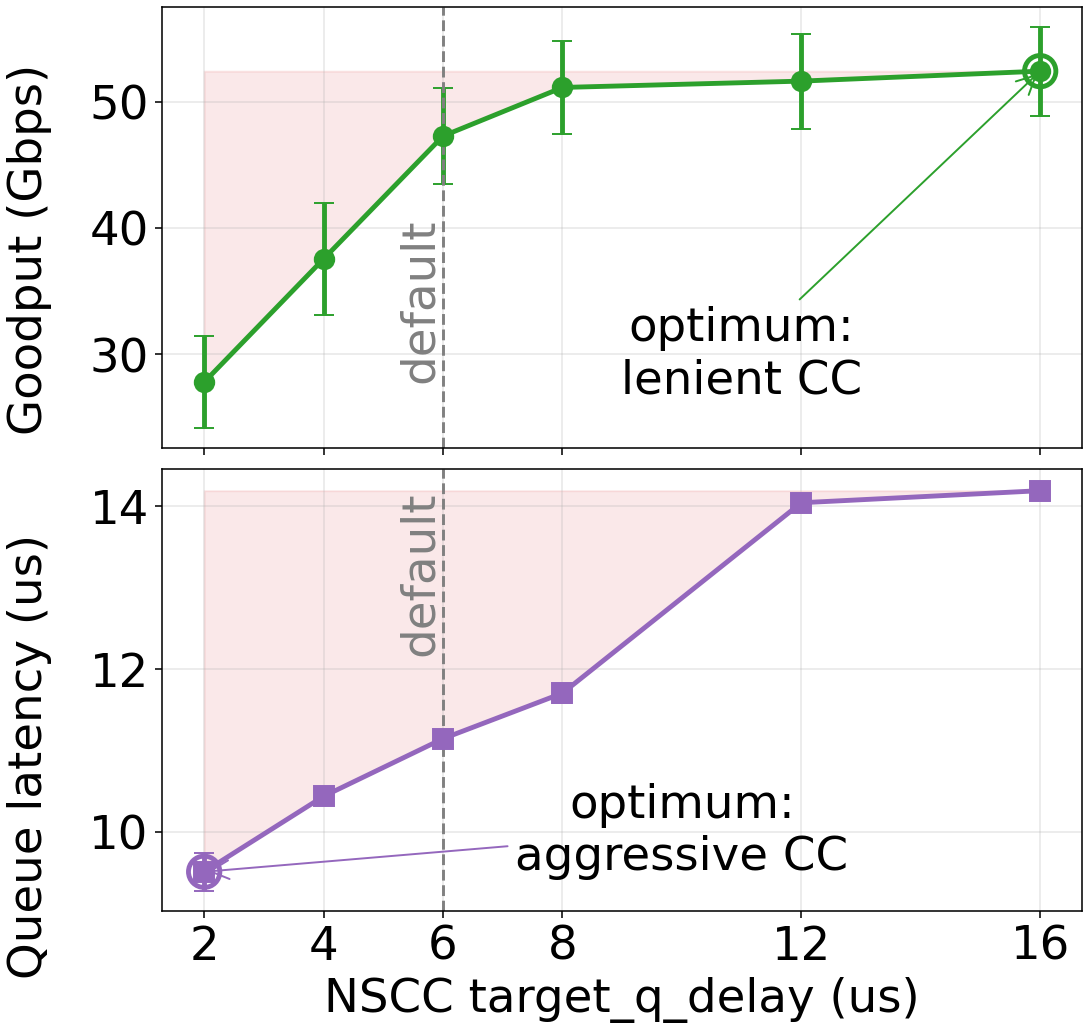
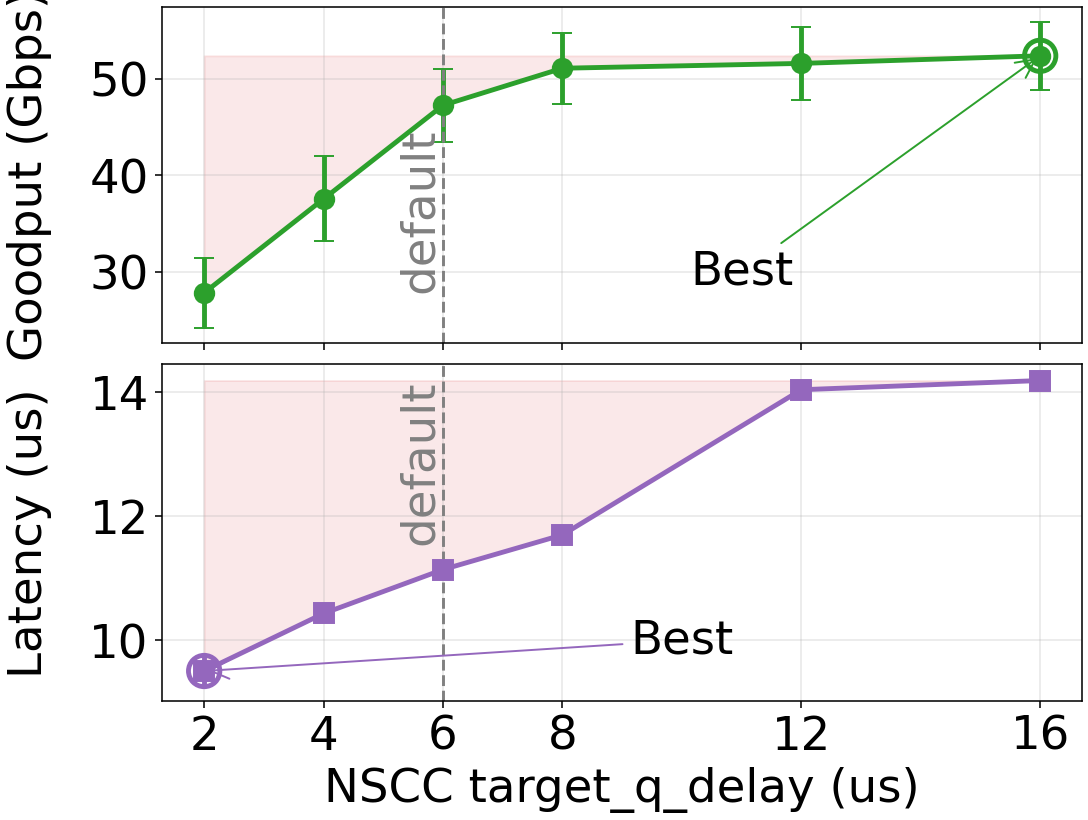
figI: shorten panel height (8 -> 6.5) so it takes less page space
Reduce the stacked figure's height; to keep the 24pt y-labels unclipped in the shorter panels,
shorten the bottom label to 'Latency (us)' and center both y-labels. Width unchanged. (Includes
the 'Best' optimum-callout wording.)

diff --git a/htsim/sim/datacenter/mvp_runs3/make_coupling_fig.py b/htsim/sim/datacenter/mvp_runs3/make_coupling_fig.py
@@ -103,13 +103,13 @@ def render():
     # sharing the x-axis so the top panel's x-ticks + x-label are dropped; small gap between panels.
     # Width and per-panel height kept as before (default_w+2.0 wide, 4 tall each -> 8 total).
     with plt.rc_context({"font.size": 24}):
-        fig, (ax1, ax2) = plt.subplots(2, 1, figsize=(default_w + 2.0, 8), sharex=True)
+        fig, (ax1, ax2) = plt.subplots(2, 1, figsize=(default_w + 2.0, 6.5), sharex=True)
         # ---- figI1 (top): Regime A (spray-removable) -- goodput, lenient CC wins ----
         ax1.errorbar(TQD, gm, yerr=gs, marker='o', lw=2.5, ms=10, capsize=5, color='tab:green')
         ax1.fill_between(TQD, gm, max(gm), color='tab:red', alpha=0.10)
         ax1.axvline(DEFAULT_TQD, color='gray', ls='--', lw=1.5)
         ax1.scatter([qA_best], [max(gm)], s=260, facecolors='none', edgecolors='tab:green', lw=2.5, zorder=5)
-        ax1.annotate("optimum:\nlenient CC", xy=(qA_best, max(gm)), xytext=(11, 30),
+        ax1.annotate("Best", xy=(qA_best, max(gm)), xytext=(11, 30),
                      va='center', ha='center', arrowprops=dict(arrowstyle='->', color='tab:green'))
         ax1.annotate("default", xy=(DEFAULT_TQD, min(gm)), color='gray', rotation=90, va='bottom', ha='right')
         ax1.set_ylabel("Goodput (Gbps)")
@@ -120,11 +120,11 @@ def render():
         ax2.fill_between(TQD, lm, max(lm), color='tab:red', alpha=0.10)
         ax2.axvline(DEFAULT_TQD, color='gray', ls='--', lw=1.5)
         ax2.scatter([qB_best], [min(lm)], s=260, facecolors='none', edgecolors='tab:purple', lw=2.5, zorder=5)
-        ax2.annotate("optimum:\naggressive CC", xy=(qB_best, min(lm)), xytext=(10, 10),
+        ax2.annotate("Best", xy=(qB_best, min(lm)), xytext=(10, 10),
                      va='center', ha='center', arrowprops=dict(arrowstyle='->', color='tab:purple'))
         ax2.annotate("default", xy=(DEFAULT_TQD, max(lm)), color='gray', rotation=90, va='top', ha='right')
-        ax2.set_xlabel(XLBL); ax2.set_ylabel("Queue latency (us)")
-        ax2.yaxis.set_label_coords(-0.12, 0.35)
+        ax2.set_xlabel(XLBL); ax2.set_ylabel("Latency (us)")
+        ax2.yaxis.set_label_coords(-0.12, 0.45)
         ax2.set_xticks(TQD); ax2.grid(alpha=0.3)
         plt.tight_layout(h_pad=0.3)   # small h_pad -> reduced gap between the two panels
         fig.savefig(os.path.join(HERE, "figI_cc_lb_tuning_coupled.png"), dpi=140, bbox_inches="tight", pad_inches=0.05)
